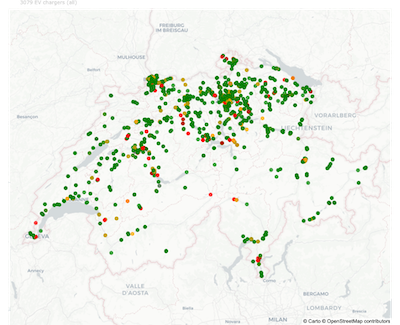
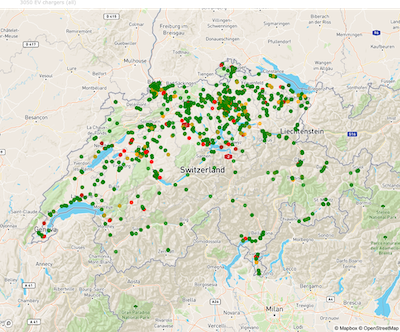
maps

diff --git a/assets/style.css b/assets/style.css
@@ -289,7 +289,7 @@ p{
     font-size: 12px;
     position: absolute;
     right: 20px;
-    top: 100px;
+    bottom: 100px;
     display: flex;
     justify-content: flex-end;
 }

diff --git a/pages/dash_swiss_ev.py b/pages/dash_swiss_ev.py
@@ -92,7 +92,7 @@ layout = html.Div([
             href='https://github.com/SFOE/ichtankestrom_Documentation',
             target='_blank',  # This makes the link open in a new tab
         )
-    ], className='source-data-ev'),
+    ], className='source-data'),
 
 ])
 
@@ -107,8 +107,8 @@ def update_graph(active_cell, selected_layer="All"):
     if active_cell:
         selected_layer = DDOWN_OPTIONS[active_cell['row']]
     
-    # if cached file is older than 24h or does not exist, load fresh data
-    if os.path.exists("static/ev_gdf.json") and time.time() < os.path.getctime("static/ev_gdf.json") + 60*60*24:
+    # if cached file is older than 4h or does not exist, load fresh data
+    if os.path.exists("static/ev_gdf.json") and time.time() < os.path.getctime("static/ev_gdf.json") + 60*60*4:
         print("Using cached EV static data from file (not older than 24h) ...")
         # df = pd.DataFrame(ev_gdf)
         df = gpd.read_file("static/ev_gdf.json")
@@ -150,20 +150,20 @@ def update_graph(active_cell, selected_layer="All"):
     # Define the tooltip
     fig.update_traces(hovertemplate="GPS: %{lat}, %{lon} <br>Name: %{customdata[0]} <br>Plugs: %{customdata[1]}"
                                     "<br>Status: %{customdata[2]}<extra></extra>")
-
+    token = os.getenv("MAPBOX_TOKEN")
     fig.update_layout(title_text=graph_title,
-                      mapbox_style="open-street-map",
-                      mapbox = {
-                            # 'accesstoken': token,
-                            # 'style': "outdoors",
+                      # mapbox_style="open-street-map",
+                      mapbox={
+                            'accesstoken': token,
+                            'style': "streets",
                             'zoom': 7,
                             'center': dict(lat=46.8, lon=8.2),
                       },
                       title_font={'size': 12, 'color': 'lightgray'},
                       autosize=True,
                       margin=dict(
-                          l=20,  # left margin
-                          r=20,  # right margin
+                          l=0,  # left margin
+                          r=0,  # right margin
                           b=0,  # bottom margin
                           t=20,  # top margin
                           pad=10  # padding
